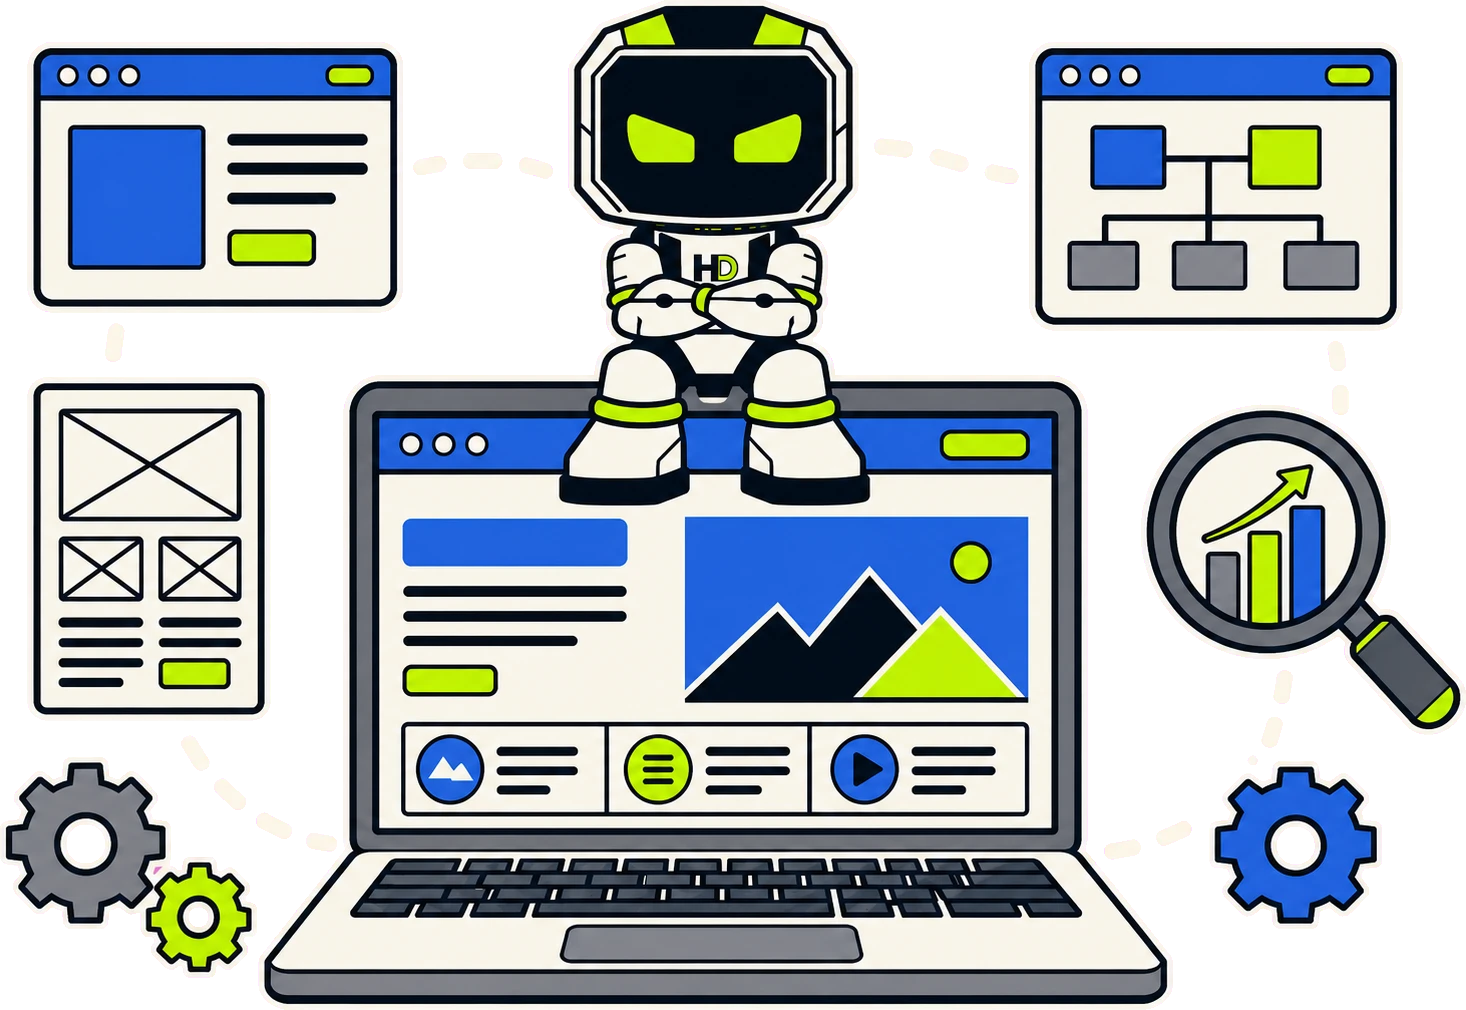
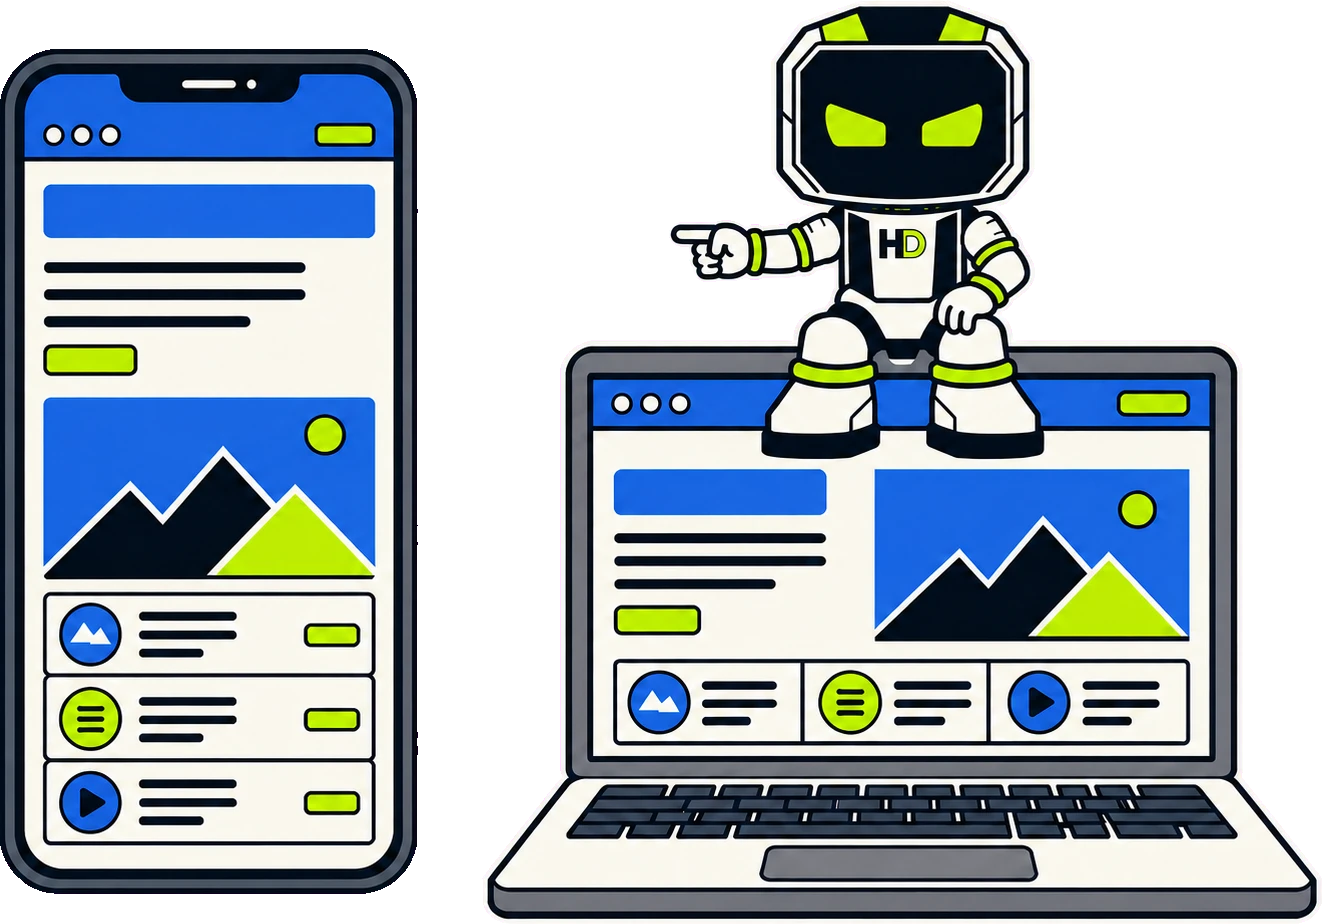
Deploy: sync site from workspace @ bccd82f

diff --git a/es/index.html b/es/index.html
@@ -149,8 +149,8 @@
 <section class="pillar on-navy">
   <div class="shell row">
     <figure data-rise="left">
-      <img src="../assets/websites-navy.webp" width="1466" height="1010"
-           alt="Un sitio de HagoDigital abierto en un port&aacute;til, rodeado de ventanas de navegador, una maqueta de p&aacute;gina, una lupa sobre un gr&aacute;fico en alza, engranajes y Hago, el robot.">
+      <img src="../assets/websites-navy.webp" width="1322" height="924"
+           alt="El mismo sitio de HagoDigital en un tel&eacute;fono y en un port&aacute;til, con Hago, el robot, sentado en el port&aacute;til se&ntilde;alando el tel&eacute;fono.">
     </figure>
     <div class="copy" data-rise>
       <span class="n">02</span>
@@ -187,8 +187,8 @@
       <p style="margin-top:16px"><a class="tlink" href="google-presence.html">Ver todo el servicio de Perfil de Google <svg class="ar" width="13" height="13" viewBox="0 0 14 14" fill="none" aria-hidden="true"><path d="M3 11L11 3M11 3H5M11 3v6" stroke="currentColor" stroke-width="1.8" stroke-linecap="round" stroke-linejoin="round"/></svg></a></p>
     </div>
     <figure data-rise="right">
-      <img src="../assets/google-presence.webp" width="1466" height="972"
-           alt="Un tel&eacute;fono con una b&uacute;squeda de Google y la ficha de empresa de HagoDigital, con un pin de mapa, un cohete, una ventana de navegador, cinco estrellas y Hago, el robot.">
+      <img src="../assets/google-presence.webp" width="1036" height="955"
+           alt="Un tel&eacute;fono con una b&uacute;squeda de Google, un mapa, un pin de ubicaci&oacute;n y una ficha de empresa de ejemplo con cinco estrellas, y Hago, el robot, se&ntilde;alando el pin.">
     </figure>
   </div>
 </section>
@@ -196,9 +196,9 @@
 <section class="pillar on-navy">
   <div class="shell row">
     <figure data-rise="left">
-      <img src="../assets/ai-human.webp" width="1459" height="900"
+      <img src="../assets/ai-human.webp" width="1459" height="897"
            style="width:100%;height:auto;display:block"
-           alt="Mitad cerebro humano, mitad engranaje, conectados a pistas de circuito, con Hago, el robot, en el centro.">
+           alt="Un cerebro humano conectado por pistas de circuito a un engranaje, con Hago, el robot, en el centro y una pluma en cada mano.">
     </figure>
     <div class="copy" data-rise>
       <span class="eyebrow">Gente &times; IA</span>

diff --git a/index.html b/index.html
@@ -150,8 +150,8 @@
 <section class="pillar on-navy">
   <div class="shell row">
     <figure data-rise="left">
-      <img src="assets/websites-navy.webp" width="1466" height="1010"
-           alt="A HagoDigital website open on a laptop, surrounded by browser windows, a page wireframe, a magnifier over a rising chart, gears and Hago the robot.">
+      <img src="assets/websites-navy.webp" width="1322" height="924"
+           alt="The same HagoDigital website shown on a phone and on a laptop, with Hago the robot sitting on the laptop pointing at the phone.">
     </figure>
     <div class="copy" data-rise>
       <span class="n">02</span>
@@ -188,8 +188,8 @@
       <p style="margin-top:16px"><a class="tlink" href="google-presence.html">See the full Google Profile service <svg class="ar" width="13" height="13" viewBox="0 0 14 14" fill="none" aria-hidden="true"><path d="M3 11L11 3M11 3H5M11 3v6" stroke="currentColor" stroke-width="1.8" stroke-linecap="round" stroke-linejoin="round"/></svg></a></p>
     </div>
     <figure data-rise="right">
-      <img src="assets/google-presence.webp" width="1466" height="972"
-           alt="A phone showing a Google search and the HagoDigital business profile card, with a map pin, a rocket, a browser window, a five-star rating and Hago the robot.">
+      <img src="assets/google-presence.webp" width="1036" height="955"
+           alt="A phone showing a Google search with a map, a location pin and a sample business profile card labelled Your Business carrying a five-star rating, and Hago the robot pointing at the pin.">
     </figure>
   </div>
 </section>
@@ -197,9 +197,9 @@
 <section class="pillar on-navy">
   <div class="shell row">
     <figure data-rise="left">
-      <img src="assets/ai-human.webp" width="1459" height="900"
+      <img src="assets/ai-human.webp" width="1459" height="897"
            style="width:100%;height:auto;display:block"
-           alt="Half a human brain, half a machine gear, wired into circuit traces, with Hago the robot standing between them.">
+           alt="A human brain wired through circuit traces to a machine gear, with Hago the robot standing between them, a pen in each hand.">
     </figure>
     <div class="copy" data-rise>
       <span class="eyebrow">Humans &times; AI</span>

diff --git a/es/google-presence.html b/es/google-presence.html
@@ -101,7 +101,7 @@
     </div>
     <figure data-rise="right">
 
-      <img src="../assets/google-presence.webp" width="1466" height="972" loading="lazy" decoding="async"
+      <img src="../assets/google-presence.webp" width="1036" height="955" loading="lazy" decoding="async"
            alt="Un Perfil de Empresa de Google en un tel&eacute;fono — un pin de mapa, datos del negocio, calificaci&oacute;n con estrellas y Hago, el robot.">
     </figure>
   </div>

diff --git a/google-presence.html b/google-presence.html
@@ -105,7 +105,7 @@
     </div>
     <figure data-rise="right">
 
-      <img src="assets/google-presence.webp" width="1466" height="972" loading="lazy" decoding="async"
+      <img src="assets/google-presence.webp" width="1036" height="955" loading="lazy" decoding="async"
            alt="A Google Business Profile on a phone — a map pin, business details, a star rating and Hago the robot.">
     </figure>
   </div>
